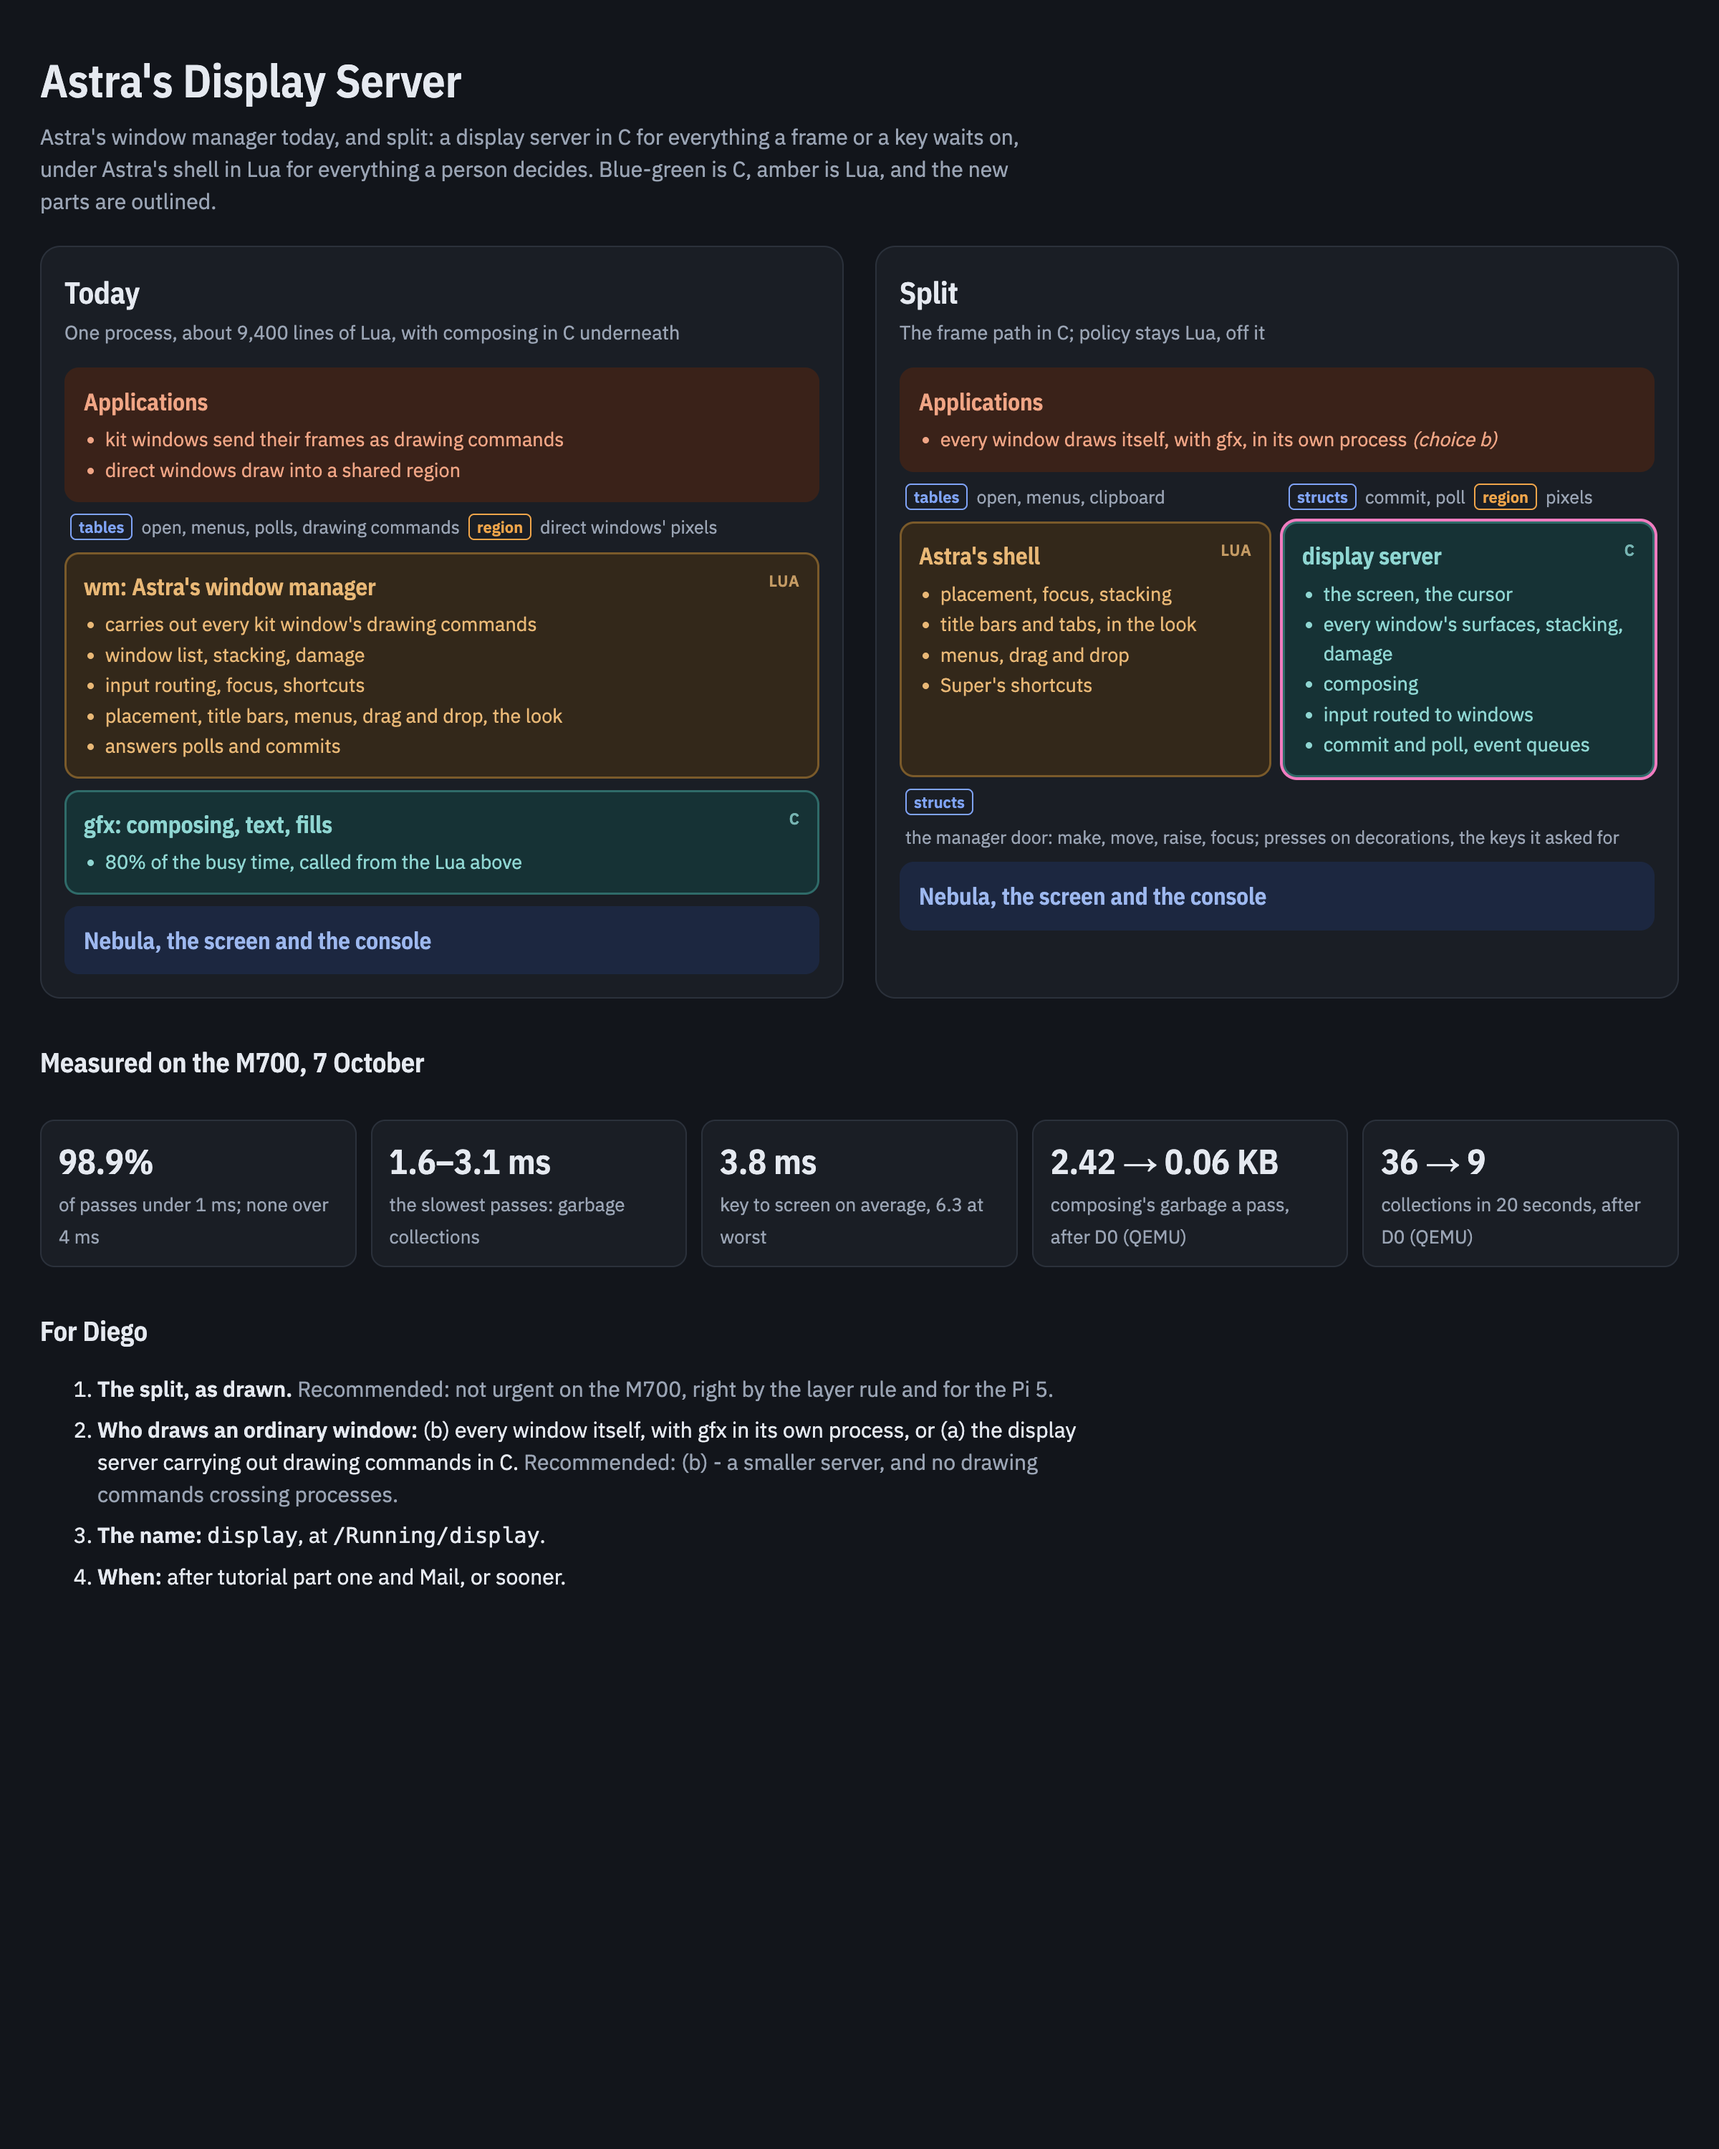
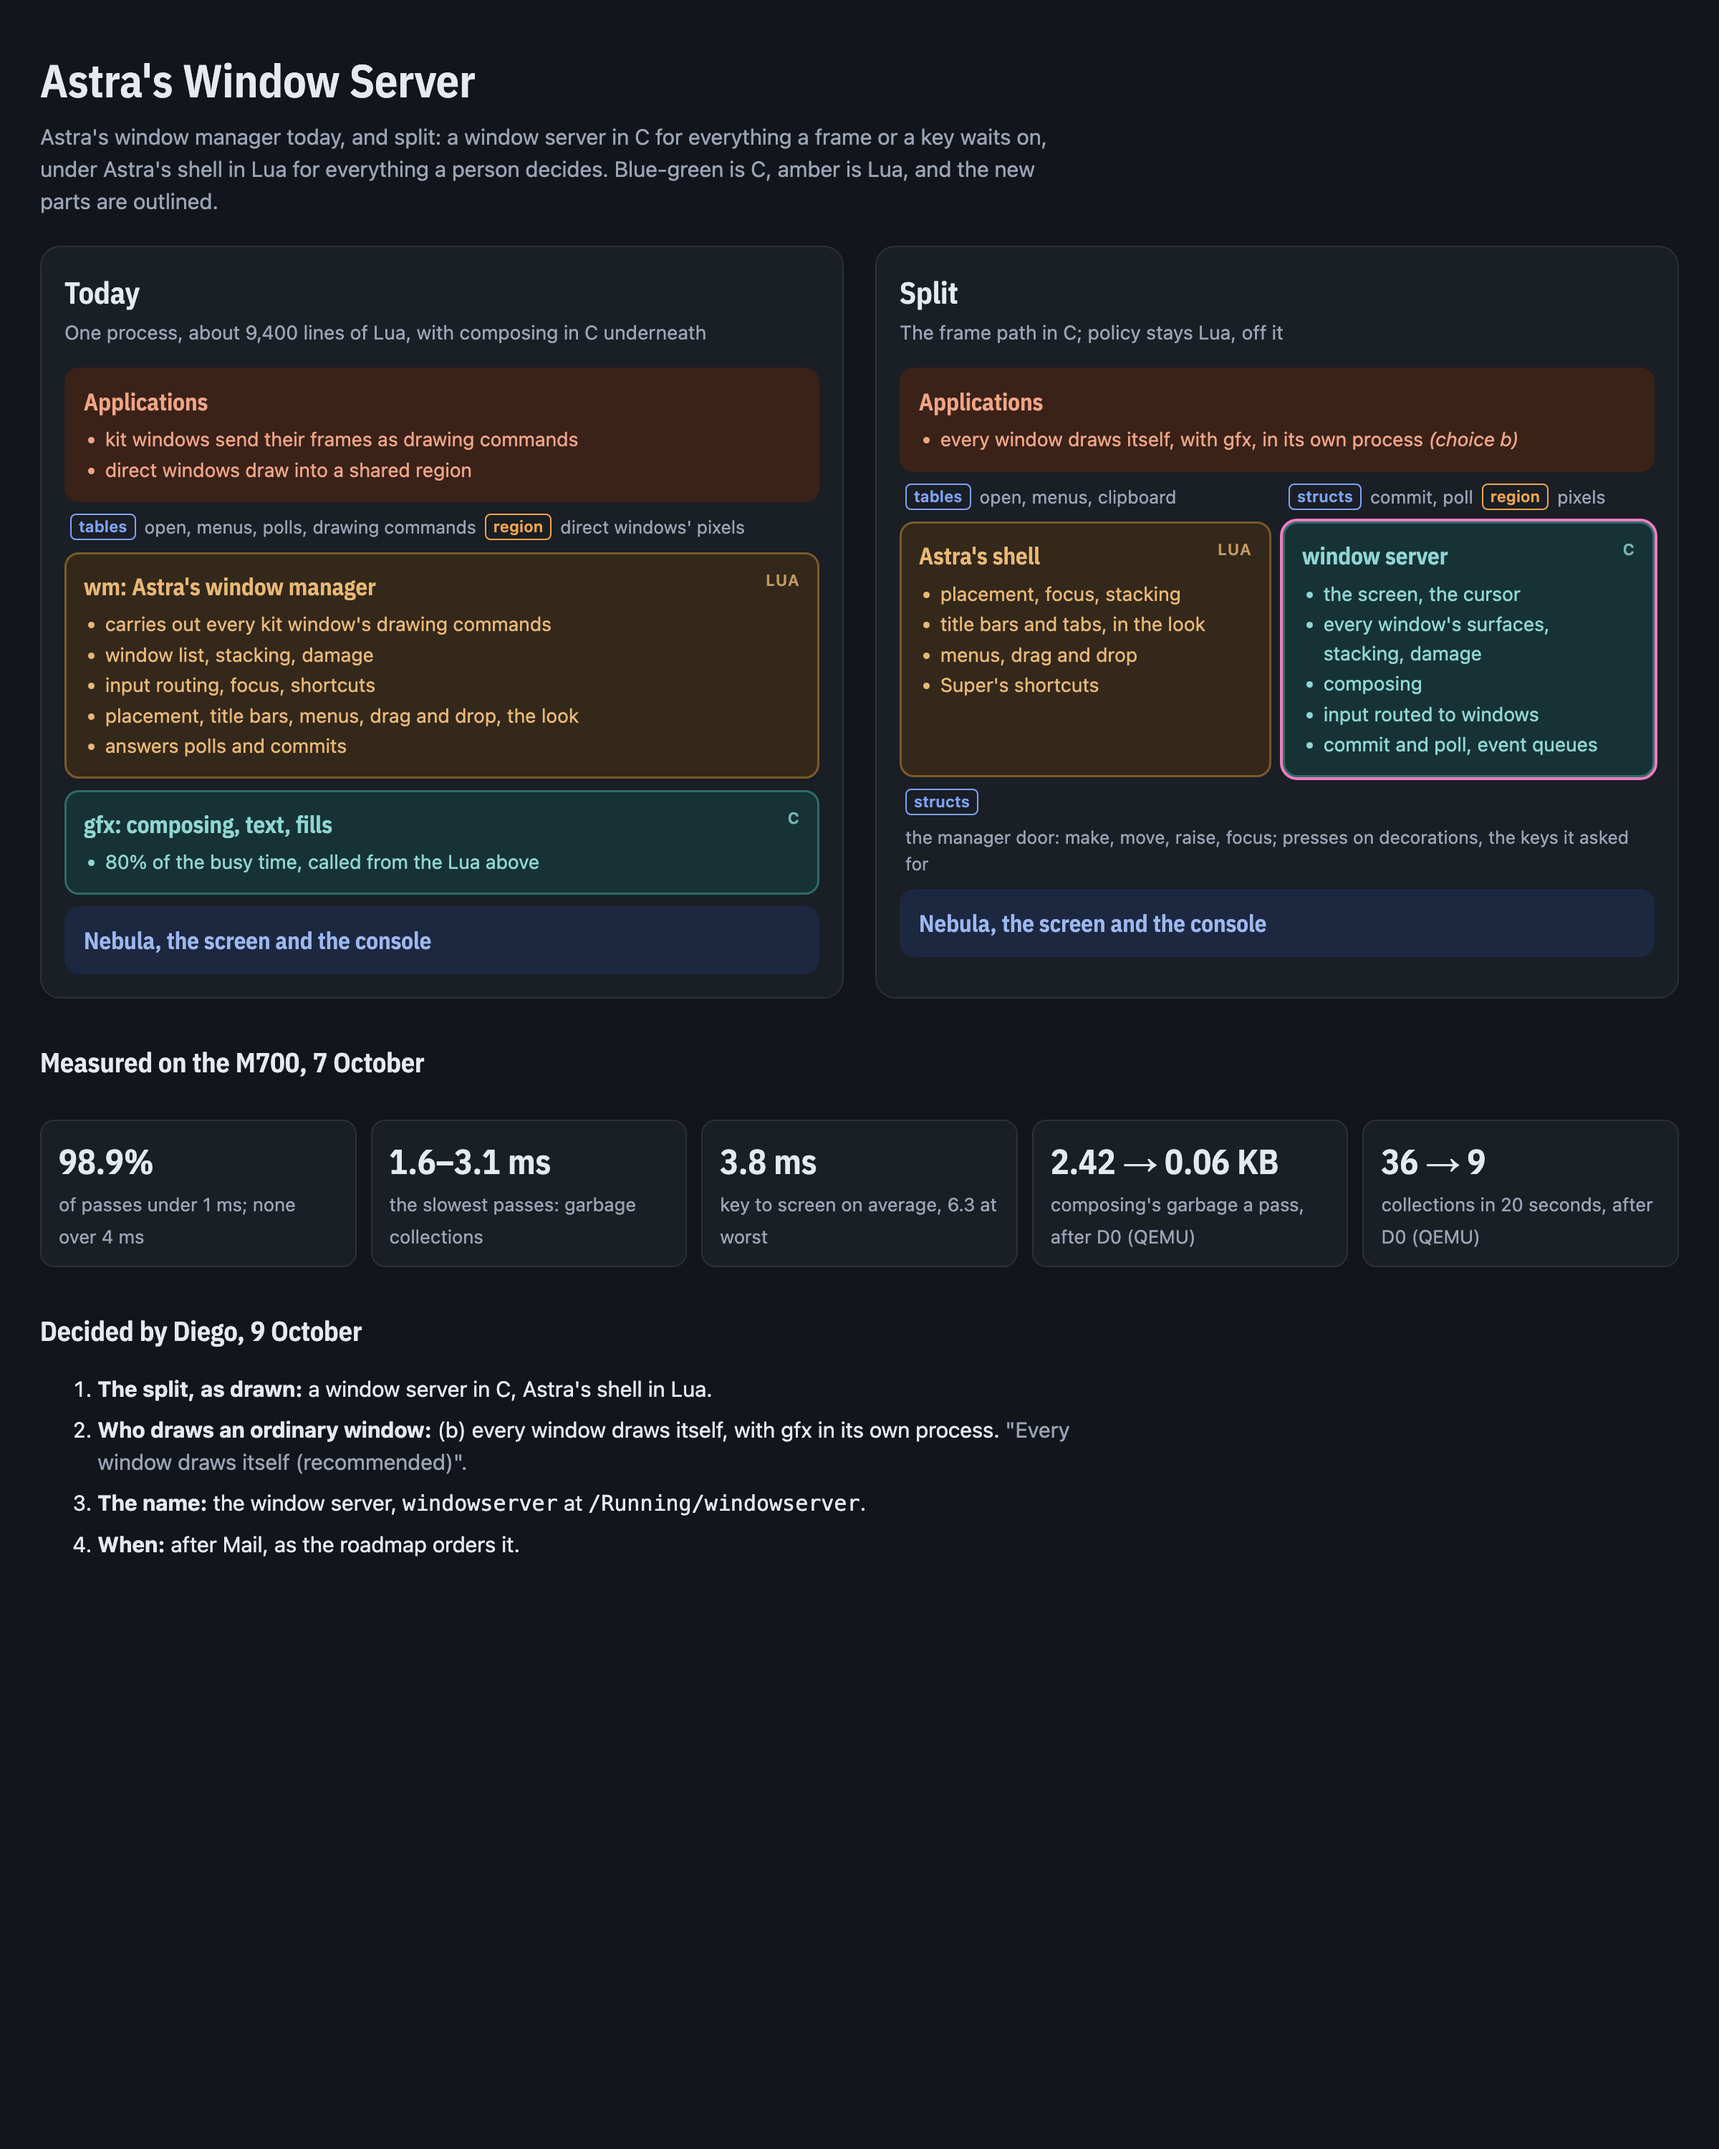
Astra D1 decided: every window draws itself, the window server
Diego answered D1 on the Kosmos Board: every window draws itself, and the
server is called the window server (windowserver at /Running/windowserver).
astra-display.md and its diagram say so, the roadmap and the decision log
record it.

diff --git a/docs/astra-display.html b/docs/astra-display.html
@@ -1,15 +1,15 @@
 <!doctype html>
 <!-- Kosmos. Copyright (c) 2026 Diego Cibils. MIT; see LICENSE. -->
 <!--
-  Astra's display server, drawn: the window manager as one Lua process
-  today, and split - a display server in C under Astra's shell in Lua - as
+  Astra's window server, drawn: the window manager as one Lua process
+  today, and split - a window server in C under Astra's shell in Lua - as
   docs/astra-display.md proposes. For Diego to decide, 7 October 2026.
 -->
 <html lang="en">
 <head>
 <meta charset="utf-8">
 <meta name="viewport" content="width=device-width, initial-scale=1, viewport-fit=cover">
-<title>Astra's Display Server</title>
+<title>Astra's Window Server</title>
 <link rel="preconnect" href="https://fonts.googleapis.com">
 <link rel="preconnect" href="https://fonts.gstatic.com" crossorigin>
 <link href="https://fonts.googleapis.com/css2?family=IBM+Plex+Mono:wght@400;500&family=IBM+Plex+Sans:wght@400;500;600&family=IBM+Plex+Sans+Condensed:wght@500;600&display=swap" rel="stylesheet">
@@ -84,8 +84,8 @@
 </head>
 <body>
 <div class="wrap">
-<h1>Astra's Display Server</h1>
-<p class="lead">Astra's window manager today, and split: a display server in C for everything a frame or a key waits on, under Astra's shell in Lua for everything a person decides. Blue-green is C, amber is Lua, and the new parts are outlined.</p>
+<h1>Astra's Window Server</h1>
+<p class="lead">Astra's window manager today, and split: a window server in C for everything a frame or a key waits on, under Astra's shell in Lua for everything a person decides. Blue-green is C, amber is Lua, and the new parts are outlined.</p>
 
 <div class="cols">
   <section class="col">
@@ -116,7 +116,7 @@
       <div class="row">
         <div class="box lua"><span class="lang">Lua</span><b>Astra's shell</b>
           <ul><li>placement, focus, stacking</li><li>title bars and tabs, in the look</li><li>menus, drag and drop</li><li>Super's shortcuts</li></ul></div>
-        <div class="box c new"><span class="lang">C</span><b>display server</b>
+        <div class="box c new"><span class="lang">C</span><b>window server</b>
           <ul><li>the screen, the cursor</li><li>every window's surfaces, stacking, damage</li><li>composing</li><li>input routed to windows</li><li>commit and poll, event queues</li></ul></div>
       </div>
       <div class="wire"><span class="tag msg">structs</span> the manager door: make, move, raise, focus; presses on decorations, the keys it asked for</div>
@@ -134,12 +134,12 @@
   <div class="num"><b>36 → 9</b><span>collections in 20 seconds, after D0 (QEMU)</span></div>
 </div>
 
-<h3>For Diego</h3>
+<h3>Decided by Diego, 9 October</h3>
 <ol class="q">
-  <li><b>The split, as drawn.</b> <span class="rec">Recommended: not urgent on the M700, right by the layer rule and for the Pi 5.</span></li>
-  <li><b>Who draws an ordinary window:</b> (b) every window itself, with gfx in its own process, or (a) the display server carrying out drawing commands in C. <span class="rec">Recommended: (b) - a smaller server, and no drawing commands crossing processes.</span></li>
-  <li><b>The name:</b> <code>display</code>, at <code>/Running/display</code>.</li>
-  <li><b>When:</b> after tutorial part one and Mail, or sooner.</li>
+  <li><b>The split, as drawn:</b> a window server in C, Astra's shell in Lua.</li>
+  <li><b>Who draws an ordinary window:</b> (b) every window draws itself, with gfx in its own process. <span class="rec">"Every window draws itself (recommended)".</span></li>
+  <li><b>The name:</b> the window server, <code>windowserver</code> at <code>/Running/windowserver</code>.</li>
+  <li><b>When:</b> after Mail, as the roadmap orders it.</li>
 </ol>
 </div>
 </body>

diff --git a/docs/astra-display.md b/docs/astra-display.md
@@ -1,4 +1,4 @@
-# Astra's display server - a design, for Diego to decide
+# Astra's window server - a design, decided
 
 Written 7 October 2026, after Astra was measured (`testing.md` 18.438) and
 composing's garbage taken away (18.439). Nothing here is built.
@@ -56,7 +56,7 @@ nine thousand lines of Lua), which:
                  ├─ commit, poll, events (structs) ───────┤
                  └─ open, menus, clipboard (tables) ──┐    │
                                                       ▼    ▼
-   Astra's shell (Lua)  ◄── manager door (structs) ── display server (C)
+   Astra's shell (Lua)  ◄── manager door (structs) ── window server (C)
    placement, focus, title bars,                       screen, surfaces,
    menus, drag and drop, the look,                     stacking, damage,
    shortcuts, the Deskbar's place                      composing, cursor,
@@ -66,7 +66,7 @@ nine thousand lines of Lua), which:
                                     console: keys, pointer ─┘
 ```
 
-**The display server, in C** (`user/servers/display.c`): owns the screen,
+**The window server, in C** (`user/servers/windowserver.c`): owns the screen,
 the back buffer and the hardware cursor; holds every window's surfaces,
 place, stacking and flags; keeps the damage and composes it; reads the
 console and routes each key and press to the window it belongs to, holding
@@ -76,7 +76,7 @@ the frame path, no Lua on it. It decides nothing a person would choose.
 **Astra's shell, in Lua** (what `wm.lua` becomes): every decision - where a
 window opens, which has the focus, what stacks over what, how a title bar
 looks and what pressing it does, menus, drag and drop, Super's shortcuts,
-the look. It tells the display server through a door of its own, the
+the look. It tells the window server through a door of its own, the
 **manager door**, in structs: make a window here, move it, raise it, focus
 it, give me presses on decorations and these keys. The tables applications
 send for policy - open, menus, the clipboard - still reach it on
@@ -84,7 +84,7 @@ send for policy - open, menus, the clipboard - still reach it on
 
 ## The one decision under the split: who draws an ordinary window
 
-The display server would have to carry out every kit window's drawing
+The window server would have to carry out every kit window's drawing
 commands, which are Lua tables today. Two ways:
 
 **(a) The server carries them out** - in C, the commands turned into a
@@ -106,23 +106,27 @@ desktop.
 ## Steps, the desktop working after each
 
 1. **D0, done** - composing makes no garbage (0.11.43, 18.439).
-2. **D1** - this design agreed, with its diagram (`astra-display.png`).
-3. **D2** - the UI kit draws into its window's own surface (if (b)): every
+2. **D1, decided** - this design, with its diagram (`astra-display.png`).
+3. **D2** - the UI kit draws into its window's own surface: every
    window a direct one; the drawing commands retired. Measured.
-4. **D3** - the display server: the screen, surfaces, stacking, damage and
+4. **D3** - the window server: the screen, surfaces, stacking, damage and
    composing move to C; the window manager tells it through the manager
    door. `wm.lua` loses `compose.lua` and the pixel work around it.
-5. **D4** - the frame path: commit and poll answered by the display server,
+5. **D4** - the frame path: commit and poll answered by the window server,
    held polls and event queues with it.
 6. **D5** - input routing: keys and presses from the console to windows in
    C; the shell given the keys and presses it asked for.
 7. **D6** - measured again: the M700, and the Pi 5 when it is here.
 
-## For Diego
+## Decided
 
-1. **The split, as drawn** - a display server in C, Astra's shell in Lua.
-2. **Who draws an ordinary window**: (b) every window itself, recommended;
-   or (a) the server carrying out the commands.
-3. **The name**: `display`, at `/Running/display` - or another.
-4. **When**: after tutorial part one and Mail, as the roadmap orders them;
-   or sooner.
+Diego answered D1 on the Kosmos Board, 9 October 2026:
+
+1. **The split, as drawn** - a window server in C, Astra's shell in Lua
+   (agreed with the order of the work, 7 and 8 October).
+2. **Who draws an ordinary window: (b), every window draws itself** - "Every
+   window draws itself (recommended)". The drawing commands stop crossing
+   processes; the server composes surfaces and routes input.
+3. **The name: the window server** - "window server". `windowserver` at
+   `/Running/windowserver`, its source `user/servers/windowserver.c`.
+4. **When**: after Mail, as the roadmap orders it (7 and 8 October).

diff --git a/README.md b/README.md
@@ -920,3 +920,4 @@ Design decisions taken outside the documents get recorded here before being prop
 | Oct 2026 | **C is compiled inside Kosmos by TinyCC, into a program file started as any image is.** One C compiler, TinyCC, in the image with Kosmos's runtime compressed beside it to link against; the IDE's projects are Lua, Lua and C, or C, each from a template; a build goes to a `build` folder beside the sources; `tcc` at the prompt. No process writes code and runs it. Tried first: TinyCC links GCC's runtime into an image the loader runs, on both processors (`docs/tinycc.md`). |
 | Oct 2026 | **A C app opens its own window through the Window Kit, and its frame path is a declared shape.** Five calls - open, surface, commit, poll, close - from `kosmos_window.h`, the kit at `/Kosmos/Kits/window`; built over the window manager's tables first (W1), then `commit` and `poll` as structs in `wmproto.h`, on the window manager's own endpoint and told from a table by the message's tag (W2), because a table each way sixty times a second was 1,216 bytes of garbage a frame in a C app that otherwise makes none - and is 0 now. Opening stays a table: it happens once (`docs/windowkit.md`). | user/kits/window, user/include/wmproto.h, user/bin/programs/wm.lua |
 | Oct 2026 | **The desktop is called Astra.** Kosmos the operating system, Nebula the microkernel, and Astra the desktop - the window manager and compositor, the desktop, the Deskbar, the dock and launcher pad, notifications' banners, the looks and the UI kit; the applications that run on it are not Astra. Diego: "lets call our entire desktop Astra". Shown beside the others in About and `neofetch`. | CLAUDE.md, docs/glossary.md, user/bin/apps/about.lua, user/bin/programs/neofetch.lua |
+| Oct 2026 | **Astra's window server: every window draws itself, and the server is called the window server.** When the window manager is split, a window server in C composes surfaces and routes input, and Astra's shell in Lua keeps placement, focus, menus and the look; an ordinary window is drawn by the UI kit into its own surface in its own process with `gfx`, so drawing commands stop crossing processes, as Wayland and macOS do. Diego, on the Kosmos Board, 9 October: "Every window draws itself (recommended)", and the name "window server" - `windowserver` at `/Running/windowserver`. | docs/astra-display.md |

diff --git a/docs/roadmap.md b/docs/roadmap.md
@@ -8206,7 +8206,11 @@ tidy and elegant split so we dont mix lua and c in places where should be
 c and places where it should be lua". So: IDE tutorial part one, then Kosmos
 Mail (designed first, built as an IDE project), then the split - D2 onwards,
 with D1's remaining questions (who draws an ordinary window, the name) put
-to him when its turn comes.
+to him when its turn comes. **D1 DECIDED, 9 October**, on the Kosmos Board:
+every window draws itself - "Every window draws itself (recommended)" - and
+the server is **the window server** - "window server" - `windowserver` at
+`/Running/windowserver` (`docs/astra-display.md`, *Decided*). D2 is next
+after Mail.
 **The order again, Diego, 8 October**: "do chrome step 3 first, then mail,
 then the split" - the window manager's old chrome taken out first, which
 is the split's own direction (every window drawing itself), then Kosmos
